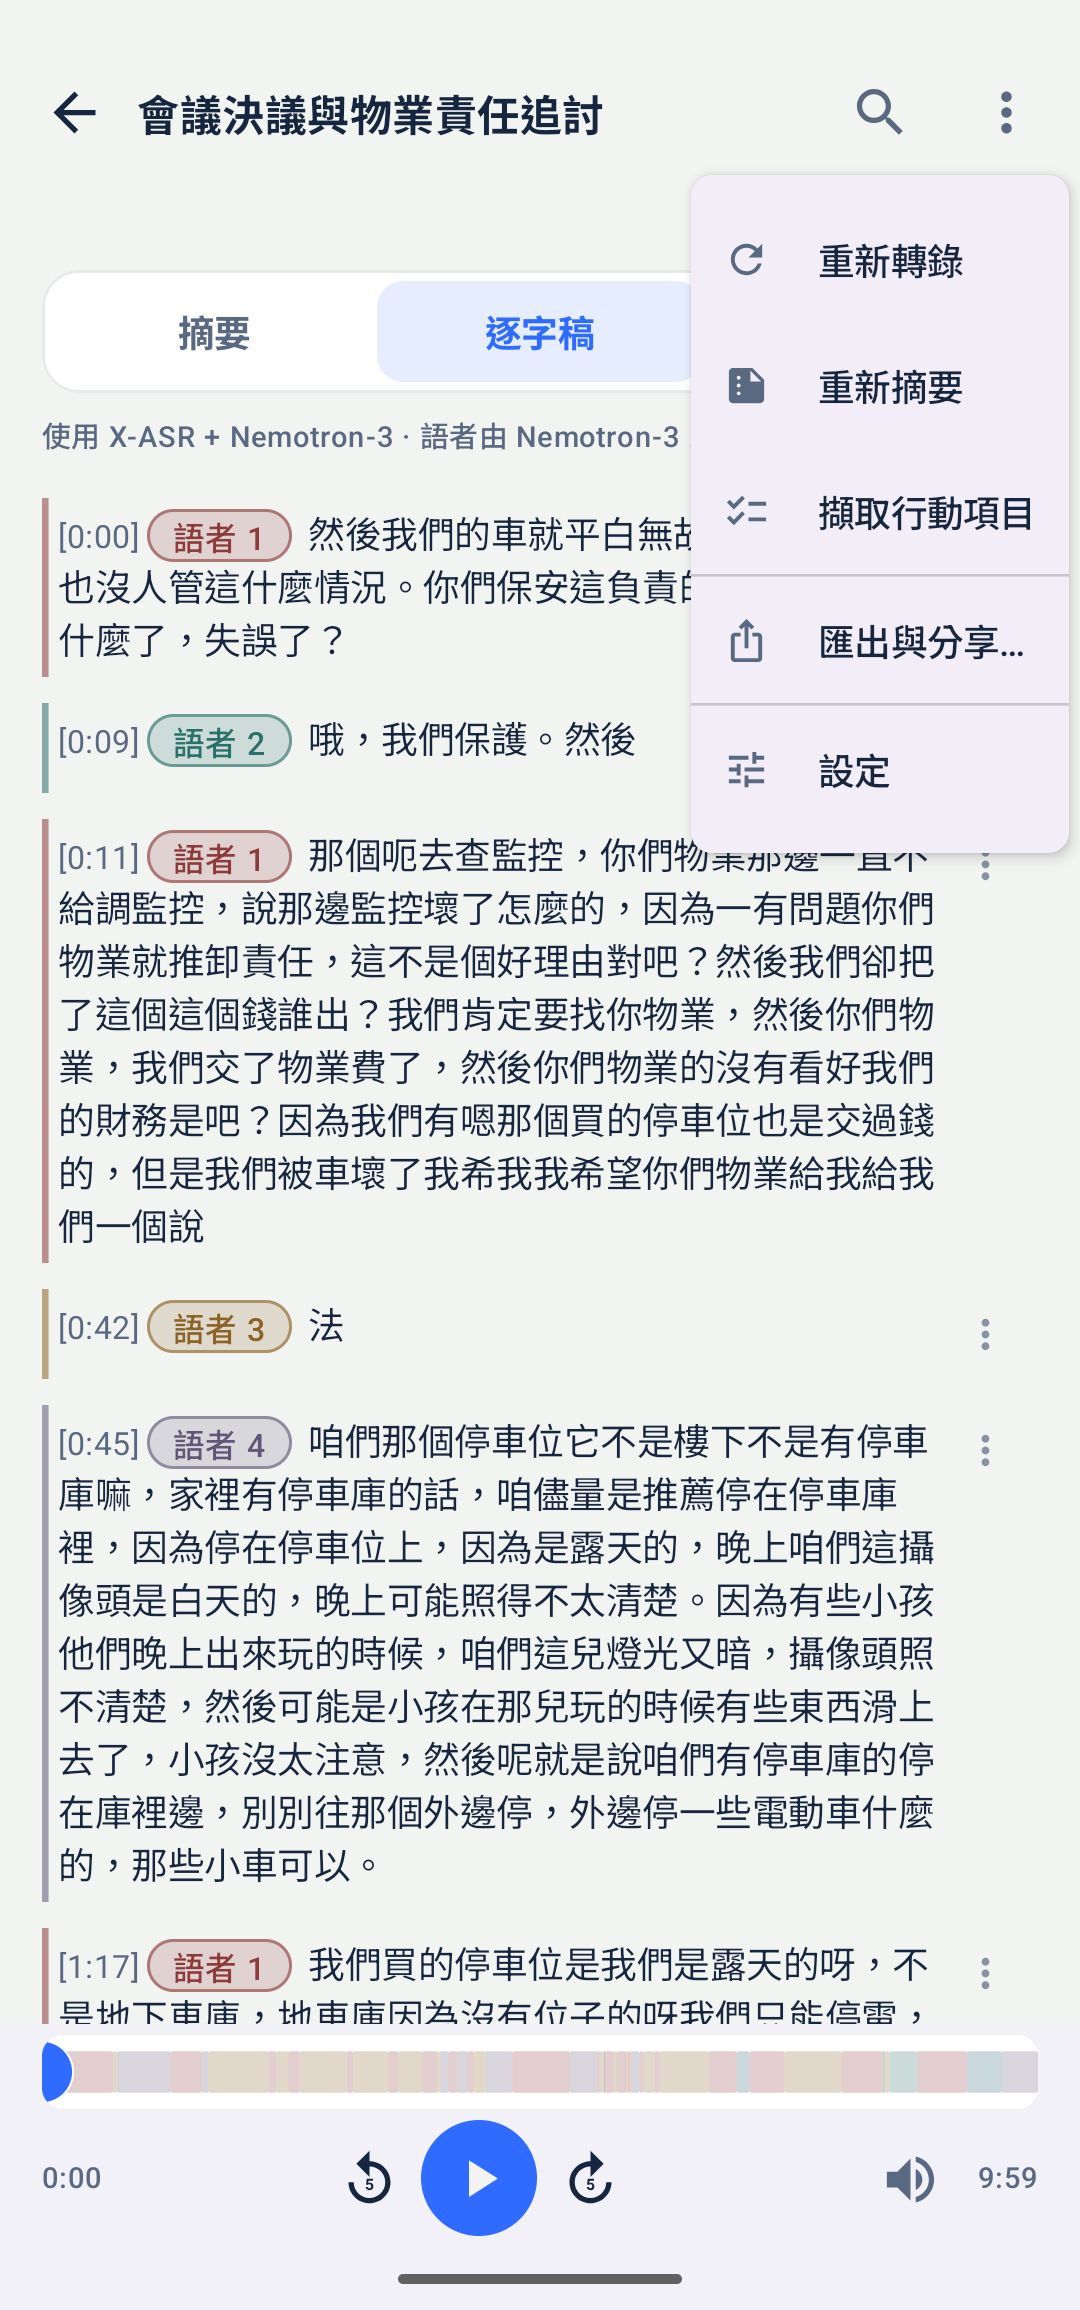
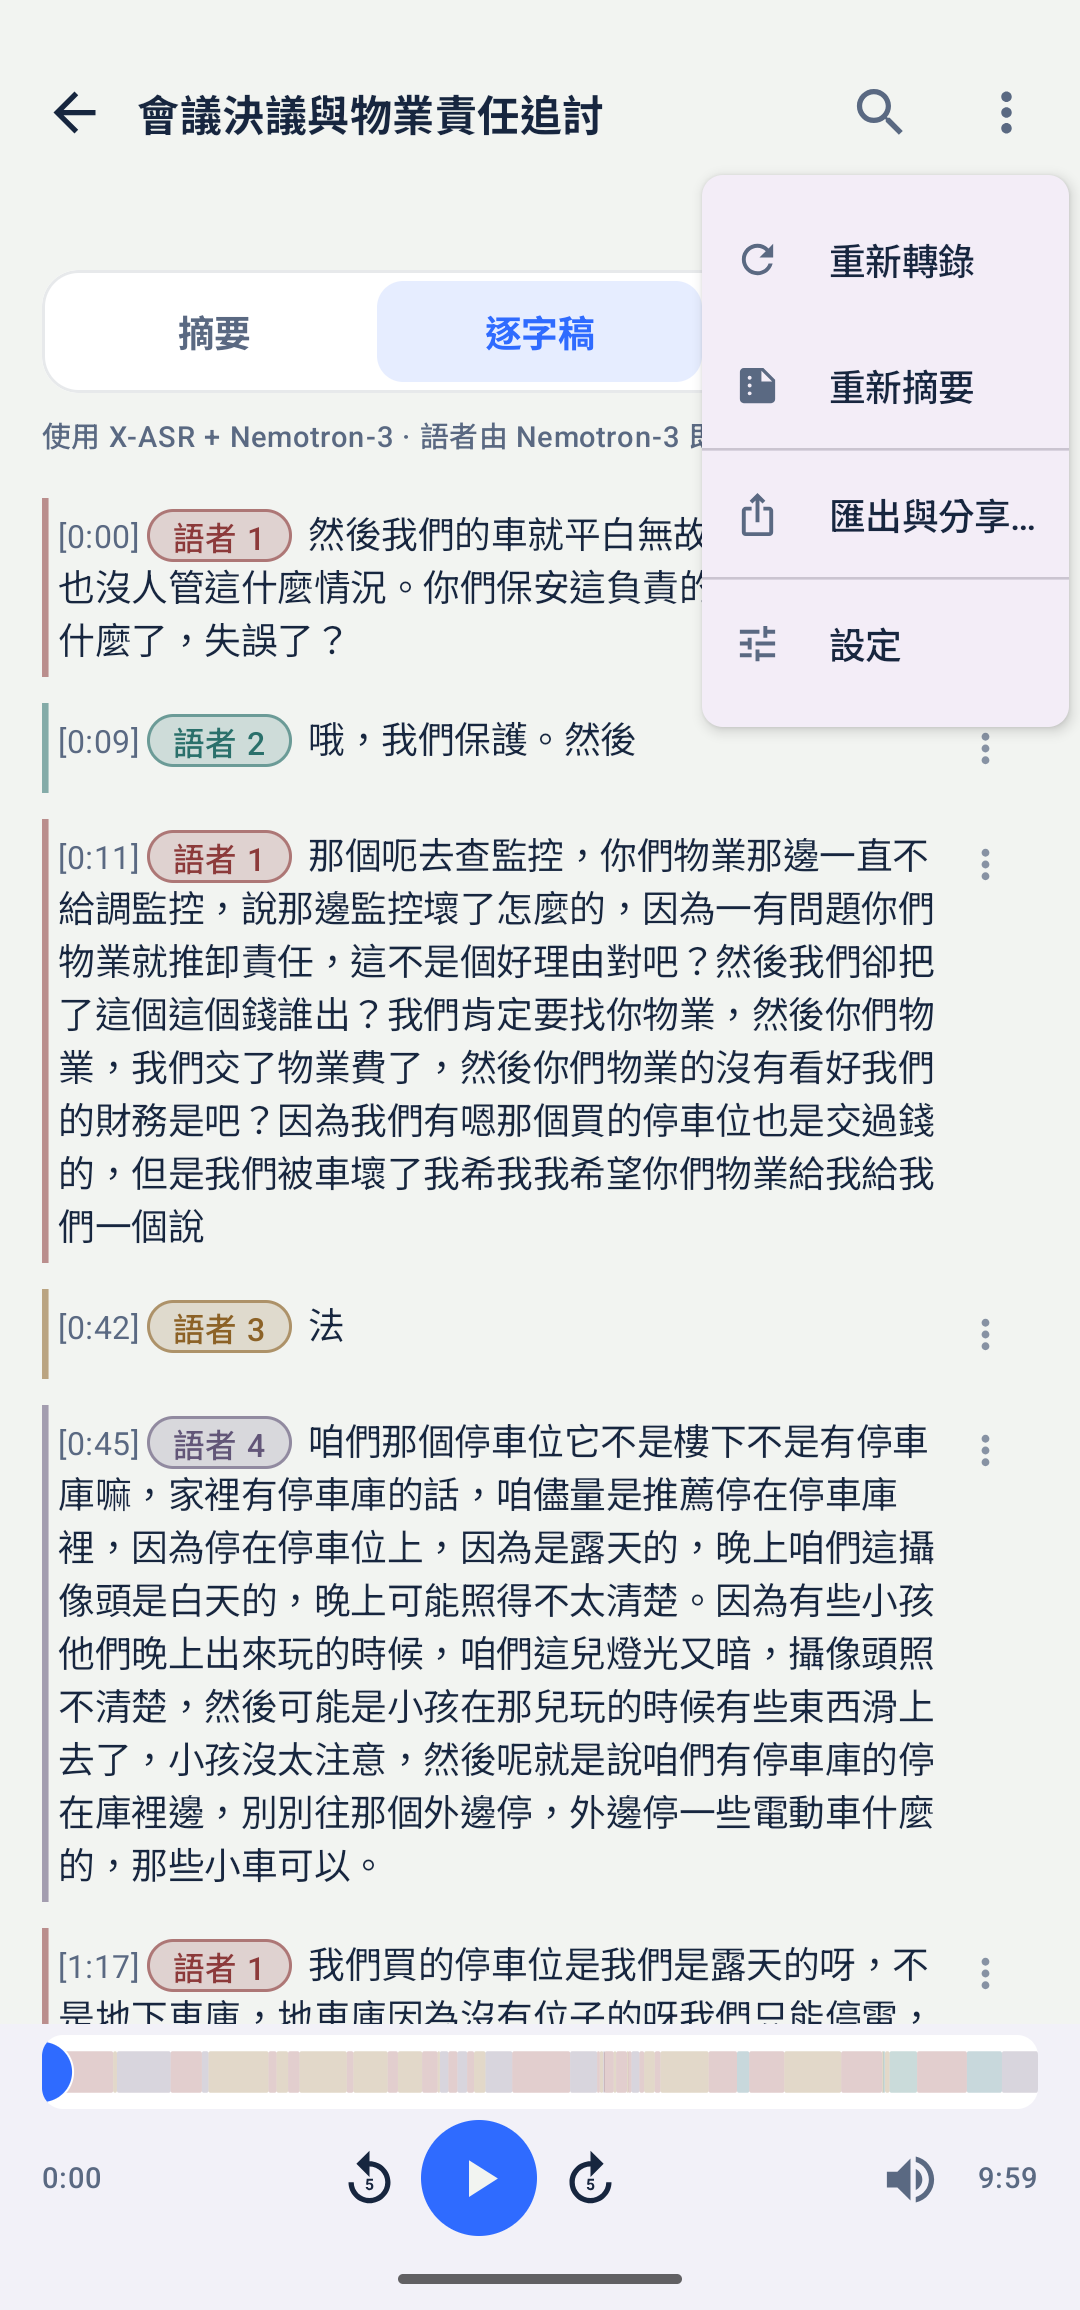
remove the 'Extract action items' button and its chained re-extract: the agent's summarization pass already produces the actions
Claude-Session: https://claude.ai/code/session_01FTPZWryYGhBFouGpM2DEme

diff --git a/app/src/main/java/studio/voxsum/MainActivity.kt b/app/src/main/java/studio/voxsum/MainActivity.kt
@@ -509,10 +509,6 @@ private fun TranscribeScreen(
     var transcriptDirty by remember { mutableStateOf(false) }
     // [titleEdited]: the user renamed the title → don't regenerate it on re-summarize (script convert only).
     var titleEdited by remember { mutableStateOf(false) }
-    // [pendingReextract]: action items are also a transcript child, but the single resident LLM can't run
-    // summary + extraction at once, so a re-summarize that also needs fresh actions sets this and the
-    // SummaryComplete handler chains extractActions() once the LLM is free.
-    var pendingReextract by remember { mutableStateOf(false) }
     // Guards for the async OpenCC conversion: [sessionGen] bumps on every new session (a stale convert
     // that finishes late must not clobber the new one); [scriptSeq] bumps per convert (only the latest applies).
     // rememberSaveable: sessionGen ALSO tags every event the service emits for the current run (via
@@ -992,7 +988,7 @@ private fun TranscribeScreen(
         showPodcastSheet = false; showConfigSheet = false
         showAddSourceSheet = false; showYouTubeSheet = false; showExportSheet = false
         lastSaveUri = null; coverBitmap = null; coverFromSession = false   // fresh session → reset Save target + identicon
-        summaryStale = false; transcriptStale = false; transcriptDirty = false; titleEdited = false; pendingReextract = false; sessionGen++
+        summaryStale = false; transcriptStale = false; transcriptDirty = false; titleEdited = false; sessionGen++
         watchingQueue = false; pendingNextTalk = false; pendingAutoProcess = false
         // deferStopped must reset here: a ⏹ Stop&save sets it true and its terminal event goes to
         // the QUEUE collector (never the main Complete that clears it), so without this a later
@@ -1165,7 +1161,7 @@ private fun TranscribeScreen(
         title = queueTitle; summary = queueSummary; actionItems = null; meetingNotes = null
         isPlaying = false; searchActive = false; searchQuery = ""
         coverEnabled = true; coverBitmap = null; coverFromSession = false; lastSaveUri = null
-        summaryStale = false; transcriptStale = false; transcriptDirty = false; titleEdited = false; pendingReextract = false
+        summaryStale = false; transcriptStale = false; transcriptDirty = false; titleEdited = false
         sessionDirty = false
         sessionGen++   // stale events from any prior session run are dropped
         // NOT a recording run: recordingRun gates the ⏭ Next-talk affordance (showNextTalk), and a
@@ -1244,7 +1240,7 @@ private fun TranscribeScreen(
             speakerNames.clear(); loaded.speakerNames.forEach { (k, v) -> speakerNames[k] = v }
             editingIndex = -1; editingSpeakerId = null
             // Fresh session → clear the dependency-tree flags so they don't leak from the previous one.
-            summaryStale = false; transcriptStale = false; transcriptDirty = false; titleEdited = false; pendingReextract = false; sessionGen++
+            summaryStale = false; transcriptStale = false; transcriptDirty = false; titleEdited = false; sessionGen++
             // A home-screen rename lives only in the entry's meta sidecar until the next persist —
             // it must outrank the (stale) title embedded inside session.m4a, or the rename appears
             // to vanish the moment the session is opened.
@@ -1648,13 +1644,6 @@ private fun TranscribeScreen(
                 is TranscriptEvent.ActionItemsComplete -> { actionItems = e.text.ifBlank { "-" }; status = context.getString(R.string.status_done); running = false; if (libraryDir != null && !watchingQueue) sessionDirty = true; autosaveSessionNow() }
                 is TranscriptEvent.NotesComplete -> {
                     meetingNotes = e.notes
-                    // The NOTES pass already emitted ActionItemsComplete from its ACTIONS section,
-                    // so the chained re-extract queued by regenerateStaleChildren is now both
-                    // redundant and harmful: it is a full ActionItemExtractor map-reduce over the
-                    // whole transcript (minutes on this hardware) AND it would overwrite the
-                    // notes-derived actions, leaving the actions card and the decisions card
-                    // sourced from two different generations.
-                    pendingReextract = false
                 }
                 is TranscriptEvent.Failed -> {
                     pendingNextTalk = false   // capture wasn't saved → don't roll into a new recording
@@ -1811,28 +1800,11 @@ private fun TranscribeScreen(
         ContextCompat.startForegroundService(context, intent)
     }
 
-    // Extract action items + decisions from the current transcript (runs in the foreground service).
-    fun extractActions() {
-        if (running || utterances.isEmpty()) return
-        TranscriptionConfig.Holder.config = config
-        running = true; progress = 0f; status = context.getString(R.string.status_starting)   // transcript persists
-        TranscriptionService.pendingText = studio.voxsum.core.llm.TranscriptFormat.format(
-            utterances, speakerNames.mapValues { it.value.name })
-        val intent = Intent(context, TranscriptionService::class.java)
-            .setAction(TranscriptionService.ACTION_EXTRACT_ACTIONS)
-            .putExtra(TranscriptionService.EXTRA_RUN_GEN, sessionGen)
-        ContextCompat.startForegroundService(context, intent)
-    }
-
-    // Regenerate the LLM children invalidated by a transcript edit or a summary-input change: re-summarize
-    // (+ title) when a summary exists, and — since the single resident LLM can't run both at once — chain
-    // a re-extract of the action items afterward (via pendingReextract, consumed on SummaryComplete). When
-    // there's no summary, re-extract directly.
+    // Regenerate what a transcript edit or a summary-input change invalidated: one re-summarize, since the
+    // agent's pass yields the summary, the title and the action items together.
     fun regenerateStaleChildren() {
         if (running) return
-        if (actionItems != null) pendingReextract = true
-        if (!summary.isNullOrBlank()) reSummarize()
-        else if (pendingReextract) { pendingReextract = false; extractActions() }
+        if (!summary.isNullOrBlank() || actionItems != null) reSummarize()
     }
 
     // Speaker corrections — pure relabels via SpeakerEdits (renumbered to contiguous ids); the .ogg
@@ -2023,11 +1995,6 @@ private fun TranscribeScreen(
             }
             if (actionItems == null) {
                 Text(stringResource(R.string.actions_pending_hint), color = pal.Slate400, modifier = Modifier.padding(top = 24.dp))
-                if (transcriptReady && !running) {
-                    androidx.compose.material3.OutlinedButton(onClick = { extractActions() }) {
-                        Text(stringResource(R.string.re_extract_actions))
-                    }
-                }
             }
         }
     }
@@ -2220,8 +2187,6 @@ private fun TranscribeScreen(
                 onReTranscribe = { audioUri?.let { launchAudio(it) } },
                 canReSummarize = transcriptReady && !running,
                 onReSummarize = { regenerateStaleChildren() },
-                canExtractActions = transcriptReady && !running,
-                onExtractActions = { extractActions() },
                 onSearch = { sessTab = 1; searchActive = !searchActive; if (!searchActive) searchQuery = "" },
                 onSettings = { showConfigSheet = true },
                 // No pre-decode here; the picker callback hands the build+write to the service.
@@ -2365,11 +2330,6 @@ private fun TranscribeScreen(
             transcriptDirty = false
             if (res == SnackbarResult.ActionPerformed) regenerateStaleChildren()
         }
-    }
-    // Single resident LLM → a re-summarize and a re-extract can't overlap; when a run that owes a
-    // re-extract finishes (running clears, pendingReextract set), chain the action-items regeneration.
-    LaunchedEffect(running, pendingReextract) {
-        if (!running && pendingReextract) { pendingReextract = false; extractActions() }
     }
     // When Settings closes after a change that needs the LLM (and a summary exists), offer a one-tap
     // re-summarize — the setting alone doesn't touch the on-screen summary, so this closes that gap.

diff --git a/app/src/main/java/studio/voxsum/service/TranscriptionService.kt b/app/src/main/java/studio/voxsum/service/TranscriptionService.kt
@@ -98,7 +98,6 @@ class TranscriptionService : LifecycleService() {
         private const val STOP_TAG = "voxsum-stop"
         const val ACTION_RECORD = "studio.voxsum.RECORD"
         const val ACTION_SUMMARIZE = "studio.voxsum.SUMMARIZE"
-        const val ACTION_EXTRACT_ACTIONS = "studio.voxsum.EXTRACT_ACTIONS"
         // Gracefully end live recording and continue into diarization/summary (vs ACTION_STOP,
         // which cancels the whole job).
         const val ACTION_STOP_RECORDING = "studio.voxsum.STOP_RECORDING"
@@ -143,7 +142,7 @@ class TranscriptionService : LifecycleService() {
         /** A pending edits-persist into a library entry (see ACTION_PERSIST_LIBRARY). */
         @Volatile var pendingPersist: PersistRequest? = null
 
-        /** The transcript/summary text for ACTION_SUMMARIZE/EXTRACT_ACTIONS. Rides a holder
+        /** The transcript/summary text for ACTION_SUMMARIZE. Rides a holder
          *  rather than an Intent extra: a long meeting's transcript exceeds the ~1 MB Binder
          *  transaction limit → TransactionTooLargeException crash. Consumed in onStartCommand. */
         @Volatile var pendingText: String? = null
@@ -421,7 +420,6 @@ class TranscriptionService : LifecycleService() {
 
         val recording = intent?.action == ACTION_RECORD
         val summarizeOnly = intent?.action == ACTION_SUMMARIZE
-        val extractActions = intent?.action == ACTION_EXTRACT_ACTIONS
         val processQueue = intent?.action == ACTION_PROCESS_QUEUE
         // A drain is already running → the new ids just enqueued will be picked up by its loop;
         // restarting would cancel and redo the item currently in progress. And recordings are
@@ -452,7 +450,7 @@ class TranscriptionService : LifecycleService() {
         val uri = intent?.getStringExtra(EXTRA_AUDIO_URI)
         // Transcript/summary text rides pendingText (Binder-limit safe). Consume it here on the
         // main thread before the job launches so a rapid second dispatch can't steal it.
-        val pendingBody = if (summarizeOnly || extractActions) pendingText.also { pendingText = null } else null
+        val pendingBody = if (summarizeOnly) pendingText.also { pendingText = null } else null
         val transcript = pendingBody ?: intent?.getStringExtra(EXTRA_TRANSCRIPT)
         val summaryExtra = pendingBody ?: intent?.getStringExtra(EXTRA_SUMMARY)
         val summarizeWithTitle = intent?.getBooleanExtra(EXTRA_WITH_TITLE, false) ?: false
@@ -480,7 +478,6 @@ class TranscriptionService : LifecycleService() {
             runCatching {
                 when {
                     summarizeOnly -> runSummarizeOnly(transcript.orEmpty(), summarizeWithTitle)
-                    extractActions -> runSummarizeOnly(transcript.orEmpty())
                     processQueue -> runQueue()
                     recording -> runRecordingPipeline()
                     else -> runPipeline(uri)
@@ -1526,8 +1523,8 @@ class TranscriptionService : LifecycleService() {
     }
 
     /** Re-summarize an existing transcript (no re-decode / re-ASR). Keeps the existing title unless
-     *  asked — a re-run shouldn't churn a title the user likes. Also serves "extract actions": the
-     *  reader produces the action items in the same pass. */
+     *  asked — a re-run shouldn't churn a title the user likes. The reader produces the
+     *  summary, title and action items in the same pass. */
     private suspend fun runSummarizeOnly(transcript: String, withTitle: Boolean = false) {
         val cfg = TranscriptionConfig.Holder.config
         if (transcript.isBlank()) { emitEvent(TranscriptEvent.ActionItemsComplete("-")); return }

diff --git a/app/src/main/java/studio/voxsum/ui/SessionTopBar.kt b/app/src/main/java/studio/voxsum/ui/SessionTopBar.kt
@@ -15,7 +15,6 @@ import androidx.compose.foundation.layout.size
 import androidx.compose.foundation.layout.statusBarsPadding
 import androidx.compose.material.icons.Icons
 import androidx.compose.material.icons.filled.ArrowBack
-import androidx.compose.material.icons.filled.Checklist
 import androidx.compose.material.icons.filled.MoreVert
 import androidx.compose.material.icons.filled.RecordVoiceOver
 import androidx.compose.material.icons.filled.IosShare
@@ -77,7 +76,6 @@ fun SessionTopBar(
     onSearch: () -> Unit,
     canReTranscribe: Boolean, onReTranscribe: () -> Unit,
     canReSummarize: Boolean, onReSummarize: () -> Unit,
-    canExtractActions: Boolean, onExtractActions: () -> Unit,
     canExport: Boolean,
     onOpenExport: () -> Unit,
     onSettings: () -> Unit,
@@ -131,7 +129,7 @@ fun SessionTopBar(
             }
             OverflowMenu(
                 canReTranscribe, onReTranscribe, canReSummarize, onReSummarize,
-                canExtractActions, onExtractActions,
+                
                 canExport, onOpenExport, onSettings,
             )
         }
@@ -171,7 +169,6 @@ fun SessionTopBar(
 private fun OverflowMenu(
     canReTranscribe: Boolean, onReTranscribe: () -> Unit,
     canReSummarize: Boolean, onReSummarize: () -> Unit,
-    canExtractActions: Boolean, onExtractActions: () -> Unit,
     canExport: Boolean,
     onOpenExport: () -> Unit,
     onSettings: () -> Unit,
@@ -189,9 +186,7 @@ private fun OverflowMenu(
                 text = { Text(stringResource(R.string.re_transcribe)) }, onClick = pick(onReTranscribe))
             if (canReSummarize) DropdownMenuItem(leadingIcon = { Icon(Icons.Filled.Summarize, null, Modifier.size(18.dp)) },
                 text = { Text(stringResource(R.string.re_summarize)) }, onClick = pick(onReSummarize))
-            if (canExtractActions) DropdownMenuItem(leadingIcon = { Icon(Icons.Filled.Checklist, null, Modifier.size(18.dp)) },
-                text = { Text(stringResource(R.string.re_extract_actions)) }, onClick = pick(onExtractActions))
-            if (canReTranscribe || canReSummarize || canExtractActions) HorizontalDivider()
+            if (canReTranscribe || canReSummarize) HorizontalDivider()
             // --- exports (disabled while running, like before) ---
             // One entry, not eight: the formats and the save/share choice live in ExportSheet, which
             // groups them by what you get. A dropdown this long also meant several slow full-page

diff --git a/docs/QUICKSTART.zh-TW.md b/docs/QUICKSTART.zh-TW.md
@@ -72,7 +72,7 @@
   <img src="screenshots/qs-export-menu.png" width="260" alt="匯出">
 </p>
 
-- 右上 **⋮**：重新轉錄、重新摘要、擷取行動項目。
+- 右上 **⋮**：重新轉錄、重新摘要；行動項目隨摘要一併產生。
 - **匯出與分享**：
   - **VoxSum 工作階段（.m4a）**：音訊、逐字稿、語者、摘要合為一檔，可在 VoxSum 重新開啟，任何播放器都能播放。
   - **文件**：PDF、Markdown、純文字。

diff --git a/docs/TEST_CHECKLIST.zh-TW.md b/docs/TEST_CHECKLIST.zh-TW.md
@@ -19,7 +19,6 @@
 - [ ] 每句依**語者**標色，顯示語者數量（用兩人以上的對話音檔測）
 - [ ] 轉錄完成後自動產生**標題**與**摘要**
 - [ ] ↻ 選單 →「偵測名稱」：能從對話內容推測語者姓名
-- [ ] ↻ 選單 →「擷取行動項目」：產生待辦清單（用會議類音檔測）
 - [ ] 🔍 **搜尋**逐字稿：符合處高亮，上下箭頭可切換
 
 ## C. 播放器
